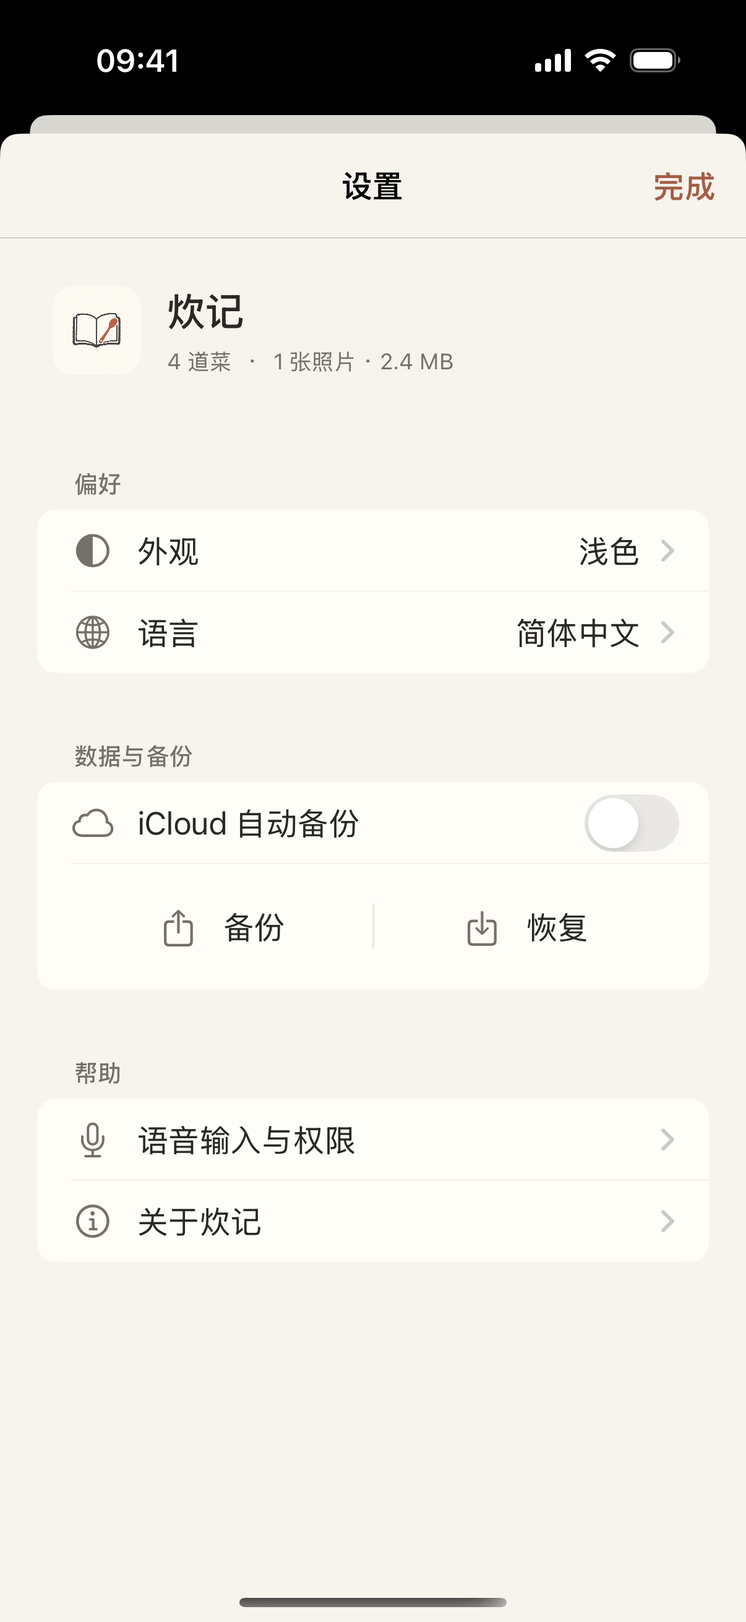
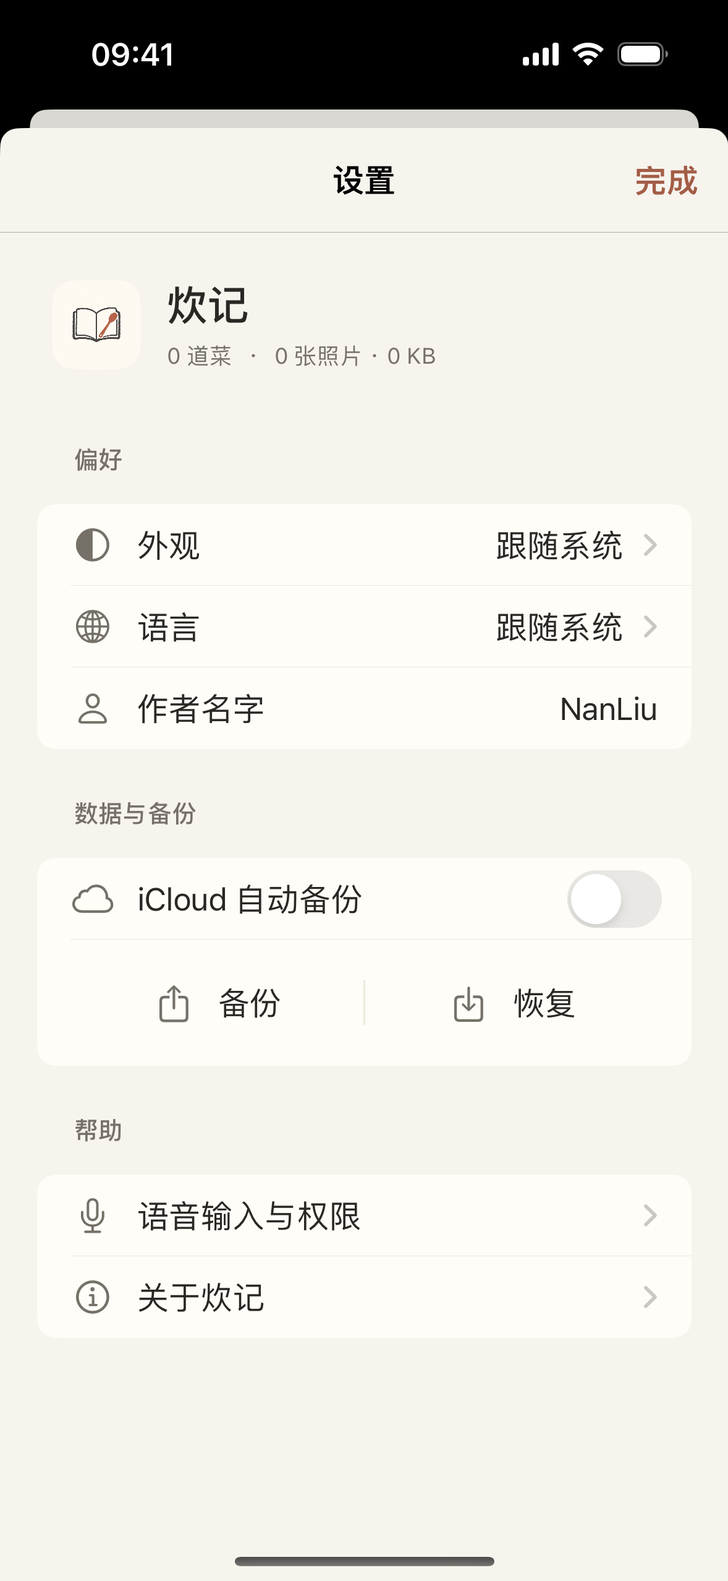
docs: refresh author signature guidance and settings screenshots

diff --git a/assets/site.js b/assets/site.js
@@ -1,4 +1,4 @@
-const copy = {"zh": {"name": "炊记", "nav": ["产品", "隐私", "支持"], "footer": "© 2026 liunangit · 炊记", "index": {"eyebrow": "一本自己的厨房笔记", "title": "记下拿手菜，\n留住自己的做法。", "lead": "一张照片，几行笔记。用量、火候和摸索出来的小心得，都留在自己的菜谱里。下次想做，再翻开。", "meta": "iPhone · iPad · iPhone Duo / iOS 17+ / 中文 · English · 日本語", "sections": [["照片与文字，恰到好处", "记录成品或过程照片，把配料、步骤和心得写在一处。主页用小图浏览，详情安静地阅读。"], ["想到就说出来", "按住说话时实时转文字，松开后直接校正。设备支持时仅使用本机识别，不保存录音，不切换到云端识别。"], ["自己的做法，随时找回", "搜索菜名或做法中的关键词，快速找回笔记。编辑同一道菜，不必重复记录。"], ["让一道菜被看见", "将菜名、照片与完整做法排成菜谱图片，再通过系统分享面板分享。长文会自动分页。"], ["换设备，也带上菜谱", ".cuijibackup 备份把照片与文字一起打包。开启 iCloud 自动备份后，新增、编辑、删除都会更新同一份备份，其他设备开启后自动合并自己的菜谱。"], ["简洁，有自己的分寸", "暖纸色、克制的陶土色和清晰的阅读层次。支持深色、大字体和大屏双栏，不添加广告或社交流。"]], "note": "目前正在准备 App Store 上架。iCloud 为单份自动备份，并非双向实时同步；也可关闭 iCloud，自行导出和导入。本机语音需设备支持对应语言。", "screenshots": ["菜谱首页", "一道菜的做法", "简洁的设置与备份"]}, "privacy": {"eyebrow": "PRIVACY", "title": "隐私政策", "lead": "炊记尊重你的菜谱和生活记录。生效日期：2026 年 10 月 11 日。开发者：liunangit。", "sections": [["保存什么", "菜名、做法、照片和创建/更新日期默认保存在设备内。应用内的语言、外观偏好也保存在本机。无需注册应用账号。"], ["开发者不收集你的菜谱", "炊记没有开发者运营的数据服务器，不加入广告、跟踪或第三方统计 SDK。我们不会主动收集、出售或公开你的菜谱内容。"], ["照片与语音权限", "仅在拍照、选图或语音输入时使用必要的系统接口。语音在支持设备上强制本机识别，原始录音不保存、不交给开发者服务器；不支持时使用文字输入。相册选择器仅交给应用你选中的照片。"], ["可选的 iCloud 备份", "只有你开启 iCloud 自动备份后，完整菜名、文字和照片才会自动写入自己的 iCloud Drive。新增、编辑、删除和导入会更新同一份备份。Apple 服务负责传输和保存，需 Apple 账户，并受 Apple 隐私政策与 iCloud 服务条款约束。关闭后停止后续上传，已有备份保留。"], ["分享与导出", "只有你选择分享或导出时，所选内容才会通过系统组件交给你选择的应用或文件位置。第三方接收应用的数据处理由其政策决定。从其他应用分享进来的文字和图片也保存在本机。当你主动分享网页或链接图片时，应用可能向原网页的图片地址发起 HTTPS 下载；该网站会按其政策处理请求，包括 IP 地址。炊记不向开发者发送这些内容。系统分享扩展仅接收你明确选择分享的内容。"], ["删除与管理", "可以编辑或删除单道菜，没有一键清空全部菜品。开启自动备份时，删除菜品也会更新云端当前备份。自行导出的副本独立保留，可在保存位置管理。卸载会移除本机数据，请先备份。"], ["支持与政策更新", "若你通过 GitHub Issues 联系开发者，你提交的内容会按 GitHub 的政策处理；公开问题可能被其他人看到。请不要提交私人菜谱、照片、账号或备份文件。政策变化会在本页更新。"]]}, "support": {"eyebrow": "SUPPORT", "title": "支持与联系", "lead": "把菜谱用顺手，也把自己的做法留好。", "sections": [["快速开始", "点“记一个菜”，填菜名，选照片，再输入或口述做法。菜名是唯一必填项；保存后可以通过主页搜索回顾、编辑和分享。"], ["语音输入", "在录入页按住“按住说话”，文字实时出现；松开后可修改。上滑再松开取消这一段。首次使用请允许麦克风和语音识别权限，随后再次按住。需设备支持中、英或日本机识别；不可用时仍能打字记录。"], ["iCloud 备份与设备传输", "设置 → iCloud 自动备份，打开开关即可。新增、编辑、删除和文件导入后自动更新一份完整备份。其他设备使用同一 Apple 账户开启后，会先自动合并已有云端菜谱，再更新备份，无需手动选择。"], ["恢复与合并", "恢复会合并菜谱，保留本机已有内容。完全相同的数据不会重复导入；同一道菜的不同做法版本会分别保留。旧版 JSON 备份仍可导入。"], ["云备份没有出现", "检查 Apple 账户、iCloud Drive 和炊记权限、网络与空间。失败时保留待备份状态，应用运行或再次打开时自动重试，无需手动刷新。iOS 不保证强制退出后仍继续执行应用任务。切换账户后需重新开启开关。"], ["分享、照片与备份文件", "分享先生成图片并预览，再选择系统分享目标。备份与恢复位于设置页，可保存 .cuijibackup 文件，或从文件 App、AirDrop 打开。文件内含文字与原始照片，恢复上限为 150 MB。也可以在其他 App 的分享菜单中选择炊记，接收文字和图片，返回炊记后自动添加一道菜。网页对接支持 cuiji://share，完整单菜品文件使用 .cuijidish，重复分享允许新增同名菜品。"], ["联系开发者", "通过下方 GitHub Issues 提交问题或建议，附上应用版本、系统版本和复现步骤即可。请不要上传私人照片、菜谱、账号信息或完整备份文件。开发者：liunangit。"]]}}, "en": {"name": "Chui", "nav": ["Product", "Privacy", "Support"], "footer": "© 2026 liunangit · Chui", "index": {"eyebrow": "YOUR OWN KITCHEN NOTEBOOK", "title": "Keep the dishes you know.\nRemember your own method.", "lead": "A photo, a few notes. Keep quantities, heat and the little things you learned in your own recipe notebook. Open it again next time.", "meta": "iPhone · iPad · iPhone Duo / iOS 17+ / 中文 · English · 日本語", "sections": [["Photos and notes, in balance", "Save finished dishes or cooking steps with free-form text. Browse small thumbnails and read in a calm detail view."], ["Say it as you cook", "Hold to speak for live transcription, then release to correct the text. On supported devices, recognition stays on-device. Audio is not saved; no cloud recognition fallback."], ["Find your own method", "Search dish names or words in your notes. Update a dish in place instead of recording it again."], ["Share a dish beautifully", "Generate recipe images containing the name, photos and full method, then use the system share sheet. Long notes span multiple pages."], ["Take your notebook with you", "A .cuijibackup archive contains photos and notes together. Enable automatic iCloud backup to update one file after additions, edits and deletions. Other devices merge your cloud recipes when enabled."], ["Quiet, considered design", "Warm paper tones, restrained accents, dark mode, larger text and two-column navigation on larger screens. No ads or social feed."]], "note": "Preparing for App Store release. iCloud keeps one automatic backup, rather than live two-way sync. You can leave iCloud off and export or import files. Voice input requires device support for the selected language.", "screenshots": ["Your recipe collection", "Your own method", "Settings and backup"]}, "privacy": {"eyebrow": "PRIVACY", "title": "Privacy policy", "lead": "Your recipes belong to you. Effective October 11, 2026. Developer: liunangit.", "sections": [["What is stored", "Dish names, methods, photos and creation/update dates are stored on your device by default. Language and appearance preferences are also local. No app account is required."], ["We do not collect your recipes", "Chui has no developer-operated data server, advertisements, tracking or third-party analytics SDKs. We do not proactively collect, sell or publish your recipe content."], ["Photos and speech", "System permissions are used when you take photos, choose images or dictate. Speech recognition is forced on-device when supported. Audio is not saved or sent to developer servers. Otherwise you can type. The system photo picker provides only selected images."], ["Optional iCloud backups", "Only after you turn on automatic iCloud backup are complete recipe names, notes and photos saved to your own iCloud Drive. Additions, edits, deletions and imports update one backup. Apple handles storage and transfer under its privacy policy and iCloud terms; an Apple Account is required. Turning it off stops future uploads and keeps the existing backup."], ["Sharing and exporting", "Content is passed to the app or file location you select only when you choose to share or export. Third-party recipients handle data under their own policies.Text and images shared from other apps are also stored locally. When you choose to share a webpage or linked image, the app may download images over HTTPS from the source website. That website handles the request, including your IP address, under its own policy. Chui does not send this content to the developer. The share extension only receives content you explicitly choose to share."], ["Managing and deleting data", "You can edit or delete individual dishes; there is no bulk-clear action. While automatic backup is on, deletions also update the current cloud backup. Exported copies remain independent and can be managed at their saved location. Back up before uninstalling, which removes local app data."], ["Support and updates", "GitHub processes support submissions according to its policies. Public issues may be visible to others; do not include private recipes, photos, account information or backup files. Policy updates will appear here."]]}, "support": {"eyebrow": "SUPPORT", "title": "Support and contact", "lead": "A little help for your own kitchen notebook.", "sections": [["Getting started", "Tap Add a dish, enter a name, choose photos and type or dictate your method. Only a name is required. Search, edit and share saved dishes from the home view."], ["Speech input", "Hold to speak for live text. Release to edit, or slide up and release to cancel that segment. Allow microphone and speech permissions when first asked, then hold again. Chinese, English and Japanese require supported on-device recognition. Typing remains available."], ["iCloud backup and transfer", "Settings → Automatic iCloud backup: turn the switch on. Additions, edits, deletions and file imports update one complete backup. On another device with the same Apple Account, existing cloud recipes are merged automatically before the backup is updated. No manual choice is needed."], ["Restoring and merging", "Restore merges recipes and keeps existing local content. Identical data is not imported twice; differing versions of a dish are kept separately. Older JSON backups remain compatible."], ["A cloud backup is missing", "Check your Apple Account, iCloud Drive permission, network and available space. Failed work remains pending and retries while the app runs or when you open it again; no refresh button is needed. iOS does not guarantee app work after force-quitting. Turn the switch on again after changing Apple Accounts."], ["Photos, sharing and files", "Preview recipe images and choose a system sharing destination. Settings offers Backup and Restore. Save .cuijibackup files or open them from Files or AirDrop. Each archive contains notes and original photos; the restore limit is 150 MB.You can also select Chui in another app’s share menu to receive text and images. Return to Chui to add the dish automatically. Web integrations use cuiji://share; a complete single-dish file uses .cuijidish. Repeated shares can create dishes with the same name."], ["Contact the developer", "Use GitHub Issues below with the app version, system version and steps to reproduce. Do not include private photos, recipes, account information or complete backups. Developer: liunangit."]]}}, "ja": {"name": "炊記", "nav": ["製品", "プライバシー", "サポート"], "footer": "© 2026 liunangit · 炊記", "index": {"eyebrow": "自分の台所ノート", "title": "得意な料理を記して、\n自分の作り方を残す。", "lead": "写真一枚、メモ数行。分量、火加減、作りながら気づいたことを、自分だけのレシピに。次に作るとき、また開きましょう。", "meta": "iPhone · iPad · iPhone Duo / iOS 17+ / 中文 · English · 日本語", "sections": [["写真と文字を、ほどよく", "完成した料理や調理中の写真と、自由な文章を保存。小さなサムネイルで探し、落ち着いた詳細画面で読み返せます。"], ["思いついたら、そのまま話す", "長押し中に文字が表示され、指を離して修正できます。対応端末では端末内のみで認識し、録音を保存せず、クラウド認識に切り替えません。"], ["自分の作り方を見つける", "料理名や本文のキーワードで検索。同じ料理を編集でき、何度も登録する必要はありません。"], ["一品を、きれいに共有", "料理名、写真、作り方の全文を画像にして、システムの共有画面から送れます。長い文章は複数ページになります。"], ["機種を替えても、レシピと一緒", ".cuijibackup ファイルに写真と文章をまとめて保存します。iCloud自動バックアップをオンにすると、追加・編集・削除時に一つのファイルを更新します。別の端末でオンにするとクラウドの料理を自動で追加します。"], ["静かで、使いやすいデザイン", "紙のような色、控えめなアクセント。ダークモード、大きな文字、大画面の二列表示に対応。広告やソーシャルフィードはありません。"]], "note": "App Store公開に向けて準備中です。iCloudは一つの自動バックアップで、双方向のリアルタイム同期ではありません。オフのままファイルを書き出し・読み込みできます。音声入力は端末の対応が必要です。", "screenshots": ["自分の料理ノート", "自分の作り方", "設定とバックアップ"]}, "privacy": {"eyebrow": "PRIVACY", "title": "プライバシーポリシー", "lead": "あなたのレシピは、あなたのものです。適用日：2026年10月11日。開発者：liunangit。", "sections": [["保存する情報", "料理名、作り方、写真、作成・更新日時を標準で端末内に保存します。言語や外観の設定も端末内に保存し、アプリ用アカウントは不要です。"], ["開発者はレシピを収集しません", "開発者が運営するデータサーバー、広告、追跡、第三者の解析 SDK はありません。レシピを自動収集・販売・公開しません。"], ["写真と音声の権限", "撮影、写真選択、音声入力の際に必要なシステム機能を使います。対応端末では端末内認識を強制し、音声を保存したり開発者サーバーへ送ったりしません。非対応時は文字入力を利用できます。写真選択器は選んだ写真のみをアプリへ渡します。"], ["任意の iCloud バックアップ", "iCloud自動バックアップをオンにした場合のみ、料理名・全文・写真を自分のiCloud Driveへ自動保存します。追加・編集・削除・読み込み時に一つのバックアップを更新します。Appleが同社のポリシーとiCloud規約に従って保存・転送し、Apple Accountが必要です。オフにすると以後のアップロードを停止し、既存のバックアップは保持します。"], ["共有と書き出し", "共有や書き出しを選んだときのみ、選択したアプリや保存先へ内容を渡します。受信先の取り扱いは各サービスのポリシーに従います。ほかのアプリから共有した文章や写真も端末内に保存します。ウェブページや画像リンクを共有すると、元のサイトからHTTPSで画像をダウンロードする場合があります。IPアドレスを含むリクエストはそのサイトのポリシーに従って扱われます。炊記は内容を開発者に送信せず、共有拡張はあなたが選んだ内容のみを受け取ります。"], ["管理と削除", "料理ごとの編集・削除ができます。一括消去はありません。自動バックアップがオンの場合、削除も現在のクラウドバックアップに反映します。書き出した副本は独立して残り、保存先で管理できます。アンインストール前にバックアップしてください。"], ["サポートと更新", "GitHub への問い合わせ内容は同社のポリシーに従って扱われ、公開 Issue はほかの人も閲覧できます。個人のレシピ、写真、アカウント情報、バックアップを投稿しないでください。更新は本ページに掲載します。"]]}, "support": {"eyebrow": "SUPPORT", "title": "サポート・お問い合わせ", "lead": "自分の台所ノートを、使いやすく。", "sections": [["はじめに", "「料理を記録」から料理名、写真、作り方を入力・音声入力して保存します。料理名だけでも保存でき、ホームから検索・編集・共有できます。"], ["音声入力", "長押し中に文字が表示され、離して修正できます。上にスライドして離すと取り消します。初回はマイクと音声認識を許可して、再度長押ししてください。中・英・日の端末内認識に対応する実機が必要で、文字入力も利用できます。"], ["iCloud バックアップと移行", "設定 → iCloud自動バックアップをオンにします。追加・編集・削除・読み込み時に一つのバックアップを更新します。同じApple Accountの別の端末ではクラウドの料理を自動で追加してから更新し、手動で選ぶ必要はありません。"], ["復元と追加", "復元は端末の料理を残して追加します。同じ内容は重複せず、同じ料理でも異なる作り方はそれぞれ残ります。旧JSONバックアップも読み込めます。"], ["バックアップが見つからない", "Apple Account、iCloud Driveの権限、ネット接続と空き容量を確認してください。失敗した処理は保留し、アプリの使用中または再度開いたときに自動再試行します。手動更新は不要です。強制終了後の継続処理は保証されません。アカウント変更後は再度オンにしてください。"], ["写真・共有・ファイル", "画像を確認してから共有先を選びます。設定からバックアップ・復元できます。.cuijibackup ファイルを保存し、ファイルAppやAirDropから開けます。文章と元の写真が含まれ、復元上限は150 MBです。ほかのアプリの共有メニューで炊記を選び、文章や写真を受け取れます。炊記に戻ると自動で一品を追加します。ウェブ連携はcuiji://share、一品の完全なファイルは.cuijidishです。同名の料理を繰り返し共有できます。"], ["開発者への連絡", "下の GitHub Issues にアプリとシステムのバージョン、再現手順を添えてください。個人の写真、レシピ、アカウント、バックアップは投稿しないでください。開発者：liunangit。"]]}}};
+const copy = {"zh": {"name": "炊记", "nav": ["产品", "隐私", "支持"], "footer": "© 2026 liunangit · 炊记", "index": {"eyebrow": "一本自己的厨房笔记", "title": "记下拿手菜，\n留住自己的做法。", "lead": "一张照片，几行笔记。用量、火候和摸索出来的小心得，都留在自己的菜谱里。下次想做，再翻开。", "meta": "iPhone · iPad · iPhone Duo / iOS 17+ / 中文 · English · 日本語", "sections": [["照片与文字，恰到好处", "记录成品或过程照片，把配料、步骤和心得写在一处。主页用小图浏览，详情安静地阅读。"], ["想到就说出来", "按住说话时实时转文字，松开后直接校正。设备支持时仅使用本机识别，不保存录音，不切换到云端识别。"], ["自己的做法，随时找回", "搜索菜名或做法中的关键词，快速找回笔记。编辑同一道菜，不必重复记录。"], ["让一道菜被看见", "将菜名、照片与完整做法排成菜谱图片，再通过系统分享面板分享。长文会自动分页。 设置中可填写最多6个字的作者名字，分享图片右下方显示署名；留空不显示。"], ["换设备，也带上菜谱", ".cuijibackup 备份把照片与文字一起打包。开启 iCloud 自动备份后，新增、编辑、删除都会更新同一份备份，其他设备开启后自动合并自己的菜谱。"], ["简洁，有自己的分寸", "暖纸色、克制的陶土色和清晰的阅读层次。支持深色、大字体和大屏双栏，不添加广告或社交流。"]], "note": "目前正在准备 App Store 上架。iCloud 为单份自动备份，并非双向实时同步；也可关闭 iCloud，自行导出和导入。本机语音需设备支持对应语言。", "screenshots": ["菜谱首页", "一道菜的做法", "简洁的设置与备份"]}, "privacy": {"eyebrow": "PRIVACY", "title": "隐私政策", "lead": "炊记尊重你的菜谱和生活记录。生效日期：2026 年 10 月 11 日。开发者：liunangit。", "sections": [["保存什么", "菜名、做法、照片和创建/更新日期默认保存在设备内。应用内的语言、外观偏好也保存在本机。无需注册应用账号。 作者名字也保存在本机，仅用于你主动分享的菜谱图片。"], ["开发者不收集你的菜谱", "炊记没有开发者运营的数据服务器，不加入广告、跟踪或第三方统计 SDK。我们不会主动收集、出售或公开你的菜谱内容。"], ["照片与语音权限", "仅在拍照、选图或语音输入时使用必要的系统接口。语音在支持设备上强制本机识别，原始录音不保存、不交给开发者服务器；不支持时使用文字输入。相册选择器仅交给应用你选中的照片。"], ["可选的 iCloud 备份", "只有你开启 iCloud 自动备份后，完整菜名、文字和照片才会自动写入自己的 iCloud Drive。新增、编辑、删除和导入会更新同一份备份。Apple 服务负责传输和保存，需 Apple 账户，并受 Apple 隐私政策与 iCloud 服务条款约束。关闭后停止后续上传，已有备份保留。"], ["分享与导出", "只有你选择分享或导出时，所选内容才会通过系统组件交给你选择的应用或文件位置。第三方接收应用的数据处理由其政策决定。从其他应用分享进来的文字和图片也保存在本机。当你主动分享网页或链接图片时，应用可能向原网页的图片地址发起 HTTPS 下载；该网站会按其政策处理请求，包括 IP 地址。炊记不向开发者发送这些内容。系统分享扩展仅接收你明确选择分享的内容。"], ["删除与管理", "可以编辑或删除单道菜，没有一键清空全部菜品。开启自动备份时，删除菜品也会更新云端当前备份。自行导出的副本独立保留，可在保存位置管理。卸载会移除本机数据，请先备份。"], ["支持与政策更新", "若你通过 GitHub Issues 联系开发者，你提交的内容会按 GitHub 的政策处理；公开问题可能被其他人看到。请不要提交私人菜谱、照片、账号或备份文件。政策变化会在本页更新。"]]}, "support": {"eyebrow": "SUPPORT", "title": "支持与联系", "lead": "把菜谱用顺手，也把自己的做法留好。", "sections": [["快速开始", "点“记一个菜”，填菜名，选照片，再输入或口述做法。菜名是唯一必填项；保存后可以通过主页搜索回顾、编辑和分享。"], ["语音输入", "在录入页按住“按住说话”，文字实时出现；松开后可修改。上滑再松开取消这一段。首次使用请允许麦克风和语音识别权限，随后再次按住。需设备支持中、英或日本机识别；不可用时仍能打字记录。"], ["iCloud 备份与设备传输", "设置 → iCloud 自动备份，打开开关即可。新增、编辑、删除和文件导入后自动更新一份完整备份。其他设备使用同一 Apple 账户开启后，会先自动合并已有云端菜谱，再更新备份，无需手动选择。"], ["恢复与合并", "恢复会合并菜谱，保留本机已有内容。完全相同的数据不会重复导入；同一道菜的不同做法版本会分别保留。旧版 JSON 备份仍可导入。"], ["云备份没有出现", "检查 Apple 账户、iCloud Drive 和炊记权限、网络与空间。失败时保留待备份状态，应用运行或再次打开时自动重试，无需手动刷新。iOS 不保证强制退出后仍继续执行应用任务。切换账户后需重新开启开关。"], ["分享、照片与备份文件", "分享先生成图片并预览，再选择系统分享目标。备份与恢复位于设置页，可保存 .cuijibackup 文件，或从文件 App、AirDrop 打开。文件内含文字与原始照片，恢复上限为 150 MB。也可以在其他 App 的分享菜单中选择炊记，接收文字和图片，返回炊记后自动添加一道菜。网页对接支持 cuiji://share，完整单菜品文件使用 .cuijidish，重复分享允许新增同名菜品。 设置 → 偏好 → 作者名字，可填写最多6个字，分享时自动署名。"], ["联系开发者", "通过下方 GitHub Issues 提交问题或建议，附上应用版本、系统版本和复现步骤即可。请不要上传私人照片、菜谱、账号信息或完整备份文件。开发者：liunangit。"]]}}, "en": {"name": "Chui", "nav": ["Product", "Privacy", "Support"], "footer": "© 2026 liunangit · Chui", "index": {"eyebrow": "YOUR OWN KITCHEN NOTEBOOK", "title": "Keep the dishes you know.\nRemember your own method.", "lead": "A photo, a few notes. Keep quantities, heat and the little things you learned in your own recipe notebook. Open it again next time.", "meta": "iPhone · iPad · iPhone Duo / iOS 17+ / 中文 · English · 日本語", "sections": [["Photos and notes, in balance", "Save finished dishes or cooking steps with free-form text. Browse small thumbnails and read in a calm detail view."], ["Say it as you cook", "Hold to speak for live transcription, then release to correct the text. On supported devices, recognition stays on-device. Audio is not saved; no cloud recognition fallback."], ["Find your own method", "Search dish names or words in your notes. Update a dish in place instead of recording it again."], ["Share a dish beautifully", "Generate recipe images containing the name, photos and full method, then use the system share sheet. Long notes span multiple pages. Add an author name of up to 6 characters in Settings to sign each shared image; leave it blank to omit the signature."], ["Take your notebook with you", "A .cuijibackup archive contains photos and notes together. Enable automatic iCloud backup to update one file after additions, edits and deletions. Other devices merge your cloud recipes when enabled."], ["Quiet, considered design", "Warm paper tones, restrained accents, dark mode, larger text and two-column navigation on larger screens. No ads or social feed."]], "note": "Preparing for App Store release. iCloud keeps one automatic backup, rather than live two-way sync. You can leave iCloud off and export or import files. Voice input requires device support for the selected language.", "screenshots": ["Your recipe collection", "Your own method", "Settings and backup"]}, "privacy": {"eyebrow": "PRIVACY", "title": "Privacy policy", "lead": "Your recipes belong to you. Effective October 11, 2026. Developer: liunangit.", "sections": [["What is stored", "Dish names, methods, photos and creation/update dates are stored on your device by default. Language and appearance preferences are also local. No app account is required. Your author name is stored on the device and is used only on recipe images you choose to share."], ["We do not collect your recipes", "Chui has no developer-operated data server, advertisements, tracking or third-party analytics SDKs. We do not proactively collect, sell or publish your recipe content."], ["Photos and speech", "System permissions are used when you take photos, choose images or dictate. Speech recognition is forced on-device when supported. Audio is not saved or sent to developer servers. Otherwise you can type. The system photo picker provides only selected images."], ["Optional iCloud backups", "Only after you turn on automatic iCloud backup are complete recipe names, notes and photos saved to your own iCloud Drive. Additions, edits, deletions and imports update one backup. Apple handles storage and transfer under its privacy policy and iCloud terms; an Apple Account is required. Turning it off stops future uploads and keeps the existing backup."], ["Sharing and exporting", "Content is passed to the app or file location you select only when you choose to share or export. Third-party recipients handle data under their own policies.Text and images shared from other apps are also stored locally. When you choose to share a webpage or linked image, the app may download images over HTTPS from the source website. That website handles the request, including your IP address, under its own policy. Chui does not send this content to the developer. The share extension only receives content you explicitly choose to share."], ["Managing and deleting data", "You can edit or delete individual dishes; there is no bulk-clear action. While automatic backup is on, deletions also update the current cloud backup. Exported copies remain independent and can be managed at their saved location. Back up before uninstalling, which removes local app data."], ["Support and updates", "GitHub processes support submissions according to its policies. Public issues may be visible to others; do not include private recipes, photos, account information or backup files. Policy updates will appear here."]]}, "support": {"eyebrow": "SUPPORT", "title": "Support and contact", "lead": "A little help for your own kitchen notebook.", "sections": [["Getting started", "Tap Add a dish, enter a name, choose photos and type or dictate your method. Only a name is required. Search, edit and share saved dishes from the home view."], ["Speech input", "Hold to speak for live text. Release to edit, or slide up and release to cancel that segment. Allow microphone and speech permissions when first asked, then hold again. Chinese, English and Japanese require supported on-device recognition. Typing remains available."], ["iCloud backup and transfer", "Settings → Automatic iCloud backup: turn the switch on. Additions, edits, deletions and file imports update one complete backup. On another device with the same Apple Account, existing cloud recipes are merged automatically before the backup is updated. No manual choice is needed."], ["Restoring and merging", "Restore merges recipes and keeps existing local content. Identical data is not imported twice; differing versions of a dish are kept separately. Older JSON backups remain compatible."], ["A cloud backup is missing", "Check your Apple Account, iCloud Drive permission, network and available space. Failed work remains pending and retries while the app runs or when you open it again; no refresh button is needed. iOS does not guarantee app work after force-quitting. Turn the switch on again after changing Apple Accounts."], ["Photos, sharing and files", "Preview recipe images and choose a system sharing destination. Settings offers Backup and Restore. Save .cuijibackup files or open them from Files or AirDrop. Each archive contains notes and original photos; the restore limit is 150 MB.You can also select Chui in another app’s share menu to receive text and images. Return to Chui to add the dish automatically. Web integrations use cuiji://share; a complete single-dish file uses .cuijidish. Repeated shares can create dishes with the same name. Set an author name of up to 6 characters under Settings → Preferences to sign your recipe images."], ["Contact the developer", "Use GitHub Issues below with the app version, system version and steps to reproduce. Do not include private photos, recipes, account information or complete backups. Developer: liunangit."]]}}, "ja": {"name": "炊記", "nav": ["製品", "プライバシー", "サポート"], "footer": "© 2026 liunangit · 炊記", "index": {"eyebrow": "自分の台所ノート", "title": "得意な料理を記して、\n自分の作り方を残す。", "lead": "写真一枚、メモ数行。分量、火加減、作りながら気づいたことを、自分だけのレシピに。次に作るとき、また開きましょう。", "meta": "iPhone · iPad · iPhone Duo / iOS 17+ / 中文 · English · 日本語", "sections": [["写真と文字を、ほどよく", "完成した料理や調理中の写真と、自由な文章を保存。小さなサムネイルで探し、落ち着いた詳細画面で読み返せます。"], ["思いついたら、そのまま話す", "長押し中に文字が表示され、指を離して修正できます。対応端末では端末内のみで認識し、録音を保存せず、クラウド認識に切り替えません。"], ["自分の作り方を見つける", "料理名や本文のキーワードで検索。同じ料理を編集でき、何度も登録する必要はありません。"], ["一品を、きれいに共有", "料理名、写真、作り方の全文を画像にして、システムの共有画面から送れます。長い文章は複数ページになります。 設定で6文字までの作者名を入力すると、共有画像の右下に署名が入ります。空欄なら表示しません。"], ["機種を替えても、レシピと一緒", ".cuijibackup ファイルに写真と文章をまとめて保存します。iCloud自動バックアップをオンにすると、追加・編集・削除時に一つのファイルを更新します。別の端末でオンにするとクラウドの料理を自動で追加します。"], ["静かで、使いやすいデザイン", "紙のような色、控えめなアクセント。ダークモード、大きな文字、大画面の二列表示に対応。広告やソーシャルフィードはありません。"]], "note": "App Store公開に向けて準備中です。iCloudは一つの自動バックアップで、双方向のリアルタイム同期ではありません。オフのままファイルを書き出し・読み込みできます。音声入力は端末の対応が必要です。", "screenshots": ["自分の料理ノート", "自分の作り方", "設定とバックアップ"]}, "privacy": {"eyebrow": "PRIVACY", "title": "プライバシーポリシー", "lead": "あなたのレシピは、あなたのものです。適用日：2026年10月11日。開発者：liunangit。", "sections": [["保存する情報", "料理名、作り方、写真、作成・更新日時を標準で端末内に保存します。言語や外観の設定も端末内に保存し、アプリ用アカウントは不要です。 作者名も端末内に保存し、自分で共有するレシピ画像にのみ使用します。"], ["開発者はレシピを収集しません", "開発者が運営するデータサーバー、広告、追跡、第三者の解析 SDK はありません。レシピを自動収集・販売・公開しません。"], ["写真と音声の権限", "撮影、写真選択、音声入力の際に必要なシステム機能を使います。対応端末では端末内認識を強制し、音声を保存したり開発者サーバーへ送ったりしません。非対応時は文字入力を利用できます。写真選択器は選んだ写真のみをアプリへ渡します。"], ["任意の iCloud バックアップ", "iCloud自動バックアップをオンにした場合のみ、料理名・全文・写真を自分のiCloud Driveへ自動保存します。追加・編集・削除・読み込み時に一つのバックアップを更新します。Appleが同社のポリシーとiCloud規約に従って保存・転送し、Apple Accountが必要です。オフにすると以後のアップロードを停止し、既存のバックアップは保持します。"], ["共有と書き出し", "共有や書き出しを選んだときのみ、選択したアプリや保存先へ内容を渡します。受信先の取り扱いは各サービスのポリシーに従います。ほかのアプリから共有した文章や写真も端末内に保存します。ウェブページや画像リンクを共有すると、元のサイトからHTTPSで画像をダウンロードする場合があります。IPアドレスを含むリクエストはそのサイトのポリシーに従って扱われます。炊記は内容を開発者に送信せず、共有拡張はあなたが選んだ内容のみを受け取ります。"], ["管理と削除", "料理ごとの編集・削除ができます。一括消去はありません。自動バックアップがオンの場合、削除も現在のクラウドバックアップに反映します。書き出した副本は独立して残り、保存先で管理できます。アンインストール前にバックアップしてください。"], ["サポートと更新", "GitHub への問い合わせ内容は同社のポリシーに従って扱われ、公開 Issue はほかの人も閲覧できます。個人のレシピ、写真、アカウント情報、バックアップを投稿しないでください。更新は本ページに掲載します。"]]}, "support": {"eyebrow": "SUPPORT", "title": "サポート・お問い合わせ", "lead": "自分の台所ノートを、使いやすく。", "sections": [["はじめに", "「料理を記録」から料理名、写真、作り方を入力・音声入力して保存します。料理名だけでも保存でき、ホームから検索・編集・共有できます。"], ["音声入力", "長押し中に文字が表示され、離して修正できます。上にスライドして離すと取り消します。初回はマイクと音声認識を許可して、再度長押ししてください。中・英・日の端末内認識に対応する実機が必要で、文字入力も利用できます。"], ["iCloud バックアップと移行", "設定 → iCloud自動バックアップをオンにします。追加・編集・削除・読み込み時に一つのバックアップを更新します。同じApple Accountの別の端末ではクラウドの料理を自動で追加してから更新し、手動で選ぶ必要はありません。"], ["復元と追加", "復元は端末の料理を残して追加します。同じ内容は重複せず、同じ料理でも異なる作り方はそれぞれ残ります。旧JSONバックアップも読み込めます。"], ["バックアップが見つからない", "Apple Account、iCloud Driveの権限、ネット接続と空き容量を確認してください。失敗した処理は保留し、アプリの使用中または再度開いたときに自動再試行します。手動更新は不要です。強制終了後の継続処理は保証されません。アカウント変更後は再度オンにしてください。"], ["写真・共有・ファイル", "画像を確認してから共有先を選びます。設定からバックアップ・復元できます。.cuijibackup ファイルを保存し、ファイルAppやAirDropから開けます。文章と元の写真が含まれ、復元上限は150 MBです。ほかのアプリの共有メニューで炊記を選び、文章や写真を受け取れます。炊記に戻ると自動で一品を追加します。ウェブ連携はcuiji://share、一品の完全なファイルは.cuijidishです。同名の料理を繰り返し共有できます。 設定 → 環境設定 → 作者名に6文字まで入力すると、共有するレシピ画像に署名が入ります。"], ["開発者への連絡", "下の GitHub Issues にアプリとシステムのバージョン、再現手順を添えてください。個人の写真、レシピ、アカウント、バックアップは投稿しないでください。開発者：liunangit。"]]}}};
 
 const page = document.body.dataset.page;
 const select = document.querySelector('select');

diff --git a/support.html b/support.html
@@ -1,1 +1,1 @@
-<!doctype html><html lang="zh-Hans"><head><meta charset="UTF-8"><meta name="viewport" content="width=device-width, initial-scale=1"><meta name="description" content="炊记 — 记录自己的菜品与做法。产品介绍、隐私政策与技术支持。"><title>支持与联系 · 炊记</title><link rel="icon" href="assets/icon.png"><link rel="stylesheet" href="assets/style.css"></head><body data-page="support"><header><a class="brand" href="index.html"><img src="assets/icon.png" width="44" height="44" alt=""><span id="brand">炊记</span></a><nav aria-label="页面导航"><a href="index.html">产品</a><a href="privacy.html">隐私</a><a href="support.html">支持</a></nav><select aria-label="语言 / Language / 言語"><option value="zh">中文</option><option value="en">English</option><option value="ja">日本語</option></select></header><main><div class="intro"><p class="eyebrow">SUPPORT</p><h1>支持与联系</h1><p class="lead">把菜谱用顺手，也把自己的做法留好。</p><p class="meta"></p></div><section class="content"><article><h2>快速开始</h2><p>点“记一个菜”，填菜名，选照片，再输入或口述做法。菜名是唯一必填项；保存后可以通过主页搜索回顾、编辑和分享。</p></article><article><h2>语音输入</h2><p>在录入页按住“按住说话”，文字实时出现；松开后可修改。上滑再松开取消这一段。首次使用请允许麦克风和语音识别权限，随后再次按住。需设备支持中、英或日本机识别；不可用时仍能打字记录。</p></article><article><h2>iCloud 备份与设备传输</h2><p>设置 → iCloud 自动备份，打开开关即可。新增、编辑、删除和文件导入后自动更新一份完整备份。其他设备使用同一 Apple 账户开启后，会先自动合并已有云端菜谱，再更新备份，无需手动选择。</p></article><article><h2>恢复与合并</h2><p>恢复会合并菜谱，保留本机已有内容。完全相同的数据不会重复导入；同一道菜的不同做法版本会分别保留。旧版 JSON 备份仍可导入。</p></article><article><h2>云备份没有出现</h2><p>检查 Apple 账户、iCloud Drive 和炊记权限、网络与空间。失败时保留待备份状态，应用运行或再次打开时自动重试，无需手动刷新。iOS 不保证强制退出后仍继续执行应用任务。切换账户后需重新开启开关。</p></article><article><h2>分享、照片与备份文件</h2><p>分享先生成图片并预览，再选择系统分享目标。备份与恢复位于设置页，可保存 .cuijibackup 文件，或从文件 App、AirDrop 打开。文件内含文字与原始照片，恢复上限为 150 MB。也可以在其他 App 的分享菜单中选择炊记，接收文字和图片，返回炊记后自动添加一道菜。网页对接支持 cuiji://share，完整单菜品文件使用 .cuijidish，重复分享允许新增同名菜品。</p></article><article><h2>联系开发者</h2><p>通过下方 GitHub Issues 提交问题或建议，附上应用版本、系统版本和复现步骤即可。请不要上传私人照片、菜谱、账号信息或完整备份文件。开发者：liunangit。</p></article></section><a class="button contact" href="https://github.com/liunangit/cuiji-pages/issues">GitHub Issues →</a><p class="note"><a href="share-protocol.html">菜品分享协议 / Share protocol / 共有仕様</a></p></main><footer>© 2026 liunangit · 炊记</footer><script src="assets/site.js"></script></body></html>
+<!doctype html><html lang="zh-Hans"><head><meta charset="UTF-8"><meta name="viewport" content="width=device-width, initial-scale=1"><meta name="description" content="炊记 — 记录自己的菜品与做法。产品介绍、隐私政策与技术支持。"><title>支持与联系 · 炊记</title><link rel="icon" href="assets/icon.png"><link rel="stylesheet" href="assets/style.css"></head><body data-page="support"><header><a class="brand" href="index.html"><img src="assets/icon.png" width="44" height="44" alt=""><span id="brand">炊记</span></a><nav aria-label="页面导航"><a href="index.html">产品</a><a href="privacy.html">隐私</a><a href="support.html">支持</a></nav><select aria-label="语言 / Language / 言語"><option value="zh">中文</option><option value="en">English</option><option value="ja">日本語</option></select></header><main><div class="intro"><p class="eyebrow">SUPPORT</p><h1>支持与联系</h1><p class="lead">把菜谱用顺手，也把自己的做法留好。</p><p class="meta"></p></div><section class="content"><article><h2>快速开始</h2><p>点“记一个菜”，填菜名，选照片，再输入或口述做法。菜名是唯一必填项；保存后可以通过主页搜索回顾、编辑和分享。</p></article><article><h2>语音输入</h2><p>在录入页按住“按住说话”，文字实时出现；松开后可修改。上滑再松开取消这一段。首次使用请允许麦克风和语音识别权限，随后再次按住。需设备支持中、英或日本机识别；不可用时仍能打字记录。</p></article><article><h2>iCloud 备份与设备传输</h2><p>设置 → iCloud 自动备份，打开开关即可。新增、编辑、删除和文件导入后自动更新一份完整备份。其他设备使用同一 Apple 账户开启后，会先自动合并已有云端菜谱，再更新备份，无需手动选择。</p></article><article><h2>恢复与合并</h2><p>恢复会合并菜谱，保留本机已有内容。完全相同的数据不会重复导入；同一道菜的不同做法版本会分别保留。旧版 JSON 备份仍可导入。</p></article><article><h2>云备份没有出现</h2><p>检查 Apple 账户、iCloud Drive 和炊记权限、网络与空间。失败时保留待备份状态，应用运行或再次打开时自动重试，无需手动刷新。iOS 不保证强制退出后仍继续执行应用任务。切换账户后需重新开启开关。</p></article><article><h2>分享、照片与备份文件</h2><p>分享先生成图片并预览，再选择系统分享目标。备份与恢复位于设置页，可保存 .cuijibackup 文件，或从文件 App、AirDrop 打开。文件内含文字与原始照片，恢复上限为 150 MB。也可以在其他 App 的分享菜单中选择炊记，接收文字和图片，返回炊记后自动添加一道菜。网页对接支持 cuiji://share，完整单菜品文件使用 .cuijidish，重复分享允许新增同名菜品。 设置 → 偏好 → 作者名字，可填写最多6个字，分享时自动署名。</p></article><article><h2>联系开发者</h2><p>通过下方 GitHub Issues 提交问题或建议，附上应用版本、系统版本和复现步骤即可。请不要上传私人照片、菜谱、账号信息或完整备份文件。开发者：liunangit。</p></article></section><a class="button contact" href="https://github.com/liunangit/cuiji-pages/issues">GitHub Issues →</a><p class="note"><a href="share-protocol.html">菜品分享协议 / Share protocol / 共有仕様</a></p></main><footer>© 2026 liunangit · 炊记</footer><script src="assets/site.js"></script></body></html>

diff --git a/privacy.html b/privacy.html
@@ -1,1 +1,1 @@
-<!doctype html><html lang="zh-Hans"><head><meta charset="UTF-8"><meta name="viewport" content="width=device-width, initial-scale=1"><meta name="description" content="炊记 — 记录自己的菜品与做法。产品介绍、隐私政策与技术支持。"><title>隐私政策 · 炊记</title><link rel="icon" href="assets/icon.png"><link rel="stylesheet" href="assets/style.css"></head><body data-page="privacy"><header><a class="brand" href="index.html"><img src="assets/icon.png" width="44" height="44" alt=""><span id="brand">炊记</span></a><nav aria-label="页面导航"><a href="index.html">产品</a><a href="privacy.html">隐私</a><a href="support.html">支持</a></nav><select aria-label="语言 / Language / 言語"><option value="zh">中文</option><option value="en">English</option><option value="ja">日本語</option></select></header><main><div class="intro"><p class="eyebrow">PRIVACY</p><h1>隐私政策</h1><p class="lead">炊记尊重你的菜谱和生活记录。生效日期：2026 年 10 月 11 日。开发者：liunangit。</p><p class="meta"></p></div><section class="content"><article><h2>保存什么</h2><p>菜名、做法、照片和创建/更新日期默认保存在设备内。应用内的语言、外观偏好也保存在本机。无需注册应用账号。</p></article><article><h2>开发者不收集你的菜谱</h2><p>炊记没有开发者运营的数据服务器，不加入广告、跟踪或第三方统计 SDK。我们不会主动收集、出售或公开你的菜谱内容。</p></article><article><h2>照片与语音权限</h2><p>仅在拍照、选图或语音输入时使用必要的系统接口。语音在支持设备上强制本机识别，原始录音不保存、不交给开发者服务器；不支持时使用文字输入。相册选择器仅交给应用你选中的照片。</p></article><article><h2>可选的 iCloud 备份</h2><p>只有你开启 iCloud 自动备份后，完整菜名、文字和照片才会自动写入自己的 iCloud Drive。新增、编辑、删除和导入会更新同一份备份。Apple 服务负责传输和保存，需 Apple 账户，并受 Apple 隐私政策与 iCloud 服务条款约束。关闭后停止后续上传，已有备份保留。</p></article><article><h2>分享与导出</h2><p>只有你选择分享或导出时，所选内容才会通过系统组件交给你选择的应用或文件位置。第三方接收应用的数据处理由其政策决定。从其他应用分享进来的文字和图片也保存在本机。当你主动分享网页或链接图片时，应用可能向原网页的图片地址发起 HTTPS 下载；该网站会按其政策处理请求，包括 IP 地址。炊记不向开发者发送这些内容。系统分享扩展仅接收你明确选择分享的内容。</p></article><article><h2>删除与管理</h2><p>可以编辑或删除单道菜，没有一键清空全部菜品。开启自动备份时，删除菜品也会更新云端当前备份。自行导出的副本独立保留，可在保存位置管理。卸载会移除本机数据，请先备份。</p></article><article><h2>支持与政策更新</h2><p>若你通过 GitHub Issues 联系开发者，你提交的内容会按 GitHub 的政策处理；公开问题可能被其他人看到。请不要提交私人菜谱、照片、账号或备份文件。政策变化会在本页更新。</p></article></section></main><footer>© 2026 liunangit · 炊记</footer><script src="assets/site.js"></script></body></html>
+<!doctype html><html lang="zh-Hans"><head><meta charset="UTF-8"><meta name="viewport" content="width=device-width, initial-scale=1"><meta name="description" content="炊记 — 记录自己的菜品与做法。产品介绍、隐私政策与技术支持。"><title>隐私政策 · 炊记</title><link rel="icon" href="assets/icon.png"><link rel="stylesheet" href="assets/style.css"></head><body data-page="privacy"><header><a class="brand" href="index.html"><img src="assets/icon.png" width="44" height="44" alt=""><span id="brand">炊记</span></a><nav aria-label="页面导航"><a href="index.html">产品</a><a href="privacy.html">隐私</a><a href="support.html">支持</a></nav><select aria-label="语言 / Language / 言語"><option value="zh">中文</option><option value="en">English</option><option value="ja">日本語</option></select></header><main><div class="intro"><p class="eyebrow">PRIVACY</p><h1>隐私政策</h1><p class="lead">炊记尊重你的菜谱和生活记录。生效日期：2026 年 10 月 11 日。开发者：liunangit。</p><p class="meta"></p></div><section class="content"><article><h2>保存什么</h2><p>菜名、做法、照片和创建/更新日期默认保存在设备内。应用内的语言、外观偏好也保存在本机。无需注册应用账号。 作者名字也保存在本机，仅用于你主动分享的菜谱图片。</p></article><article><h2>开发者不收集你的菜谱</h2><p>炊记没有开发者运营的数据服务器，不加入广告、跟踪或第三方统计 SDK。我们不会主动收集、出售或公开你的菜谱内容。</p></article><article><h2>照片与语音权限</h2><p>仅在拍照、选图或语音输入时使用必要的系统接口。语音在支持设备上强制本机识别，原始录音不保存、不交给开发者服务器；不支持时使用文字输入。相册选择器仅交给应用你选中的照片。</p></article><article><h2>可选的 iCloud 备份</h2><p>只有你开启 iCloud 自动备份后，完整菜名、文字和照片才会自动写入自己的 iCloud Drive。新增、编辑、删除和导入会更新同一份备份。Apple 服务负责传输和保存，需 Apple 账户，并受 Apple 隐私政策与 iCloud 服务条款约束。关闭后停止后续上传，已有备份保留。</p></article><article><h2>分享与导出</h2><p>只有你选择分享或导出时，所选内容才会通过系统组件交给你选择的应用或文件位置。第三方接收应用的数据处理由其政策决定。从其他应用分享进来的文字和图片也保存在本机。当你主动分享网页或链接图片时，应用可能向原网页的图片地址发起 HTTPS 下载；该网站会按其政策处理请求，包括 IP 地址。炊记不向开发者发送这些内容。系统分享扩展仅接收你明确选择分享的内容。</p></article><article><h2>删除与管理</h2><p>可以编辑或删除单道菜，没有一键清空全部菜品。开启自动备份时，删除菜品也会更新云端当前备份。自行导出的副本独立保留，可在保存位置管理。卸载会移除本机数据，请先备份。</p></article><article><h2>支持与政策更新</h2><p>若你通过 GitHub Issues 联系开发者，你提交的内容会按 GitHub 的政策处理；公开问题可能被其他人看到。请不要提交私人菜谱、照片、账号或备份文件。政策变化会在本页更新。</p></article></section></main><footer>© 2026 liunangit · 炊记</footer><script src="assets/site.js"></script></body></html>

diff --git a/index.html b/index.html
@@ -1,1 +1,1 @@
-<!doctype html><html lang="zh-Hans"><head><meta charset="UTF-8"><meta name="viewport" content="width=device-width, initial-scale=1"><meta name="description" content="炊记 — 记录自己的菜品与做法。产品介绍、隐私政策与技术支持。"><title>记下拿手菜， 留住自己的做法。 · 炊记</title><link rel="icon" href="assets/icon.png"><link rel="stylesheet" href="assets/style.css"></head><body data-page="index"><header><a class="brand" href="index.html"><img src="assets/icon.png" width="44" height="44" alt=""><span id="brand">炊记</span></a><nav aria-label="页面导航"><a href="index.html">产品</a><a href="privacy.html">隐私</a><a href="support.html">支持</a></nav><select aria-label="语言 / Language / 言語"><option value="zh">中文</option><option value="en">English</option><option value="ja">日本語</option></select></header><main><div class="intro"><p class="eyebrow">一本自己的厨房笔记</p><h1>记下拿手菜，<br>留住自己的做法。</h1><p class="lead">一张照片，几行笔记。用量、火候和摸索出来的小心得，都留在自己的菜谱里。下次想做，再翻开。</p><p class="meta">iPhone · iPad · iPhone Duo / iOS 17+ / 中文 · English · 日本語</p></div><section class="screenshots" aria-label="App 界面"><img loading="lazy" width="1206" height="2622" src="assets/screenshots/zh-home.png" alt="菜谱首页"><img loading="lazy" width="1206" height="2622" src="assets/screenshots/zh-recipe.png" alt="一道菜的做法"><img loading="lazy" width="1206" height="2622" src="assets/screenshots/zh-settings.png" alt="简洁的设置与备份"></section><section class="content"><article><h2>照片与文字，恰到好处</h2><p>记录成品或过程照片，把配料、步骤和心得写在一处。主页用小图浏览，详情安静地阅读。</p></article><article><h2>想到就说出来</h2><p>按住说话时实时转文字，松开后直接校正。设备支持时仅使用本机识别，不保存录音，不切换到云端识别。</p></article><article><h2>自己的做法，随时找回</h2><p>搜索菜名或做法中的关键词，快速找回笔记。编辑同一道菜，不必重复记录。</p></article><article><h2>让一道菜被看见</h2><p>将菜名、照片与完整做法排成菜谱图片，再通过系统分享面板分享。长文会自动分页。</p></article><article><h2>换设备，也带上菜谱</h2><p>.cuijibackup 备份把照片与文字一起打包。开启 iCloud 自动备份后，新增、编辑、删除都会更新同一份备份，其他设备开启后自动合并自己的菜谱。</p></article><article><h2>简洁，有自己的分寸</h2><p>暖纸色、克制的陶土色和清晰的阅读层次。支持深色、大字体和大屏双栏，不添加广告或社交流。</p></article></section><p class="note">目前正在准备 App Store 上架。iCloud 为单份自动备份，并非双向实时同步；也可关闭 iCloud，自行导出和导入。本机语音需设备支持对应语言。</p><p class="note"><a href="share-protocol.html">菜品分享协议 / Share protocol / 共有仕様</a></p></main><footer>© 2026 liunangit · 炊记</footer><script src="assets/site.js"></script></body></html>
+<!doctype html><html lang="zh-Hans"><head><meta charset="UTF-8"><meta name="viewport" content="width=device-width, initial-scale=1"><meta name="description" content="炊记 — 记录自己的菜品与做法。产品介绍、隐私政策与技术支持。"><title>记下拿手菜， 留住自己的做法。 · 炊记</title><link rel="icon" href="assets/icon.png"><link rel="stylesheet" href="assets/style.css"></head><body data-page="index"><header><a class="brand" href="index.html"><img src="assets/icon.png" width="44" height="44" alt=""><span id="brand">炊记</span></a><nav aria-label="页面导航"><a href="index.html">产品</a><a href="privacy.html">隐私</a><a href="support.html">支持</a></nav><select aria-label="语言 / Language / 言語"><option value="zh">中文</option><option value="en">English</option><option value="ja">日本語</option></select></header><main><div class="intro"><p class="eyebrow">一本自己的厨房笔记</p><h1>记下拿手菜，<br>留住自己的做法。</h1><p class="lead">一张照片，几行笔记。用量、火候和摸索出来的小心得，都留在自己的菜谱里。下次想做，再翻开。</p><p class="meta">iPhone · iPad · iPhone Duo / iOS 17+ / 中文 · English · 日本語</p></div><section class="screenshots" aria-label="App 界面"><img loading="lazy" width="1206" height="2622" src="assets/screenshots/zh-home.png" alt="菜谱首页"><img loading="lazy" width="1206" height="2622" src="assets/screenshots/zh-recipe.png" alt="一道菜的做法"><img loading="lazy" width="1206" height="2622" src="assets/screenshots/zh-settings.png" alt="简洁的设置与备份"></section><section class="content"><article><h2>照片与文字，恰到好处</h2><p>记录成品或过程照片，把配料、步骤和心得写在一处。主页用小图浏览，详情安静地阅读。</p></article><article><h2>想到就说出来</h2><p>按住说话时实时转文字，松开后直接校正。设备支持时仅使用本机识别，不保存录音，不切换到云端识别。</p></article><article><h2>自己的做法，随时找回</h2><p>搜索菜名或做法中的关键词，快速找回笔记。编辑同一道菜，不必重复记录。</p></article><article><h2>让一道菜被看见</h2><p>将菜名、照片与完整做法排成菜谱图片，再通过系统分享面板分享。长文会自动分页。 设置中可填写最多6个字的作者名字，分享图片右下方显示署名；留空不显示。</p></article><article><h2>换设备，也带上菜谱</h2><p>.cuijibackup 备份把照片与文字一起打包。开启 iCloud 自动备份后，新增、编辑、删除都会更新同一份备份，其他设备开启后自动合并自己的菜谱。</p></article><article><h2>简洁，有自己的分寸</h2><p>暖纸色、克制的陶土色和清晰的阅读层次。支持深色、大字体和大屏双栏，不添加广告或社交流。</p></article></section><p class="note">目前正在准备 App Store 上架。iCloud 为单份自动备份，并非双向实时同步；也可关闭 iCloud，自行导出和导入。本机语音需设备支持对应语言。</p><p class="note"><a href="share-protocol.html">菜品分享协议 / Share protocol / 共有仕様</a></p></main><footer>© 2026 liunangit · 炊记</footer><script src="assets/site.js"></script></body></html>
